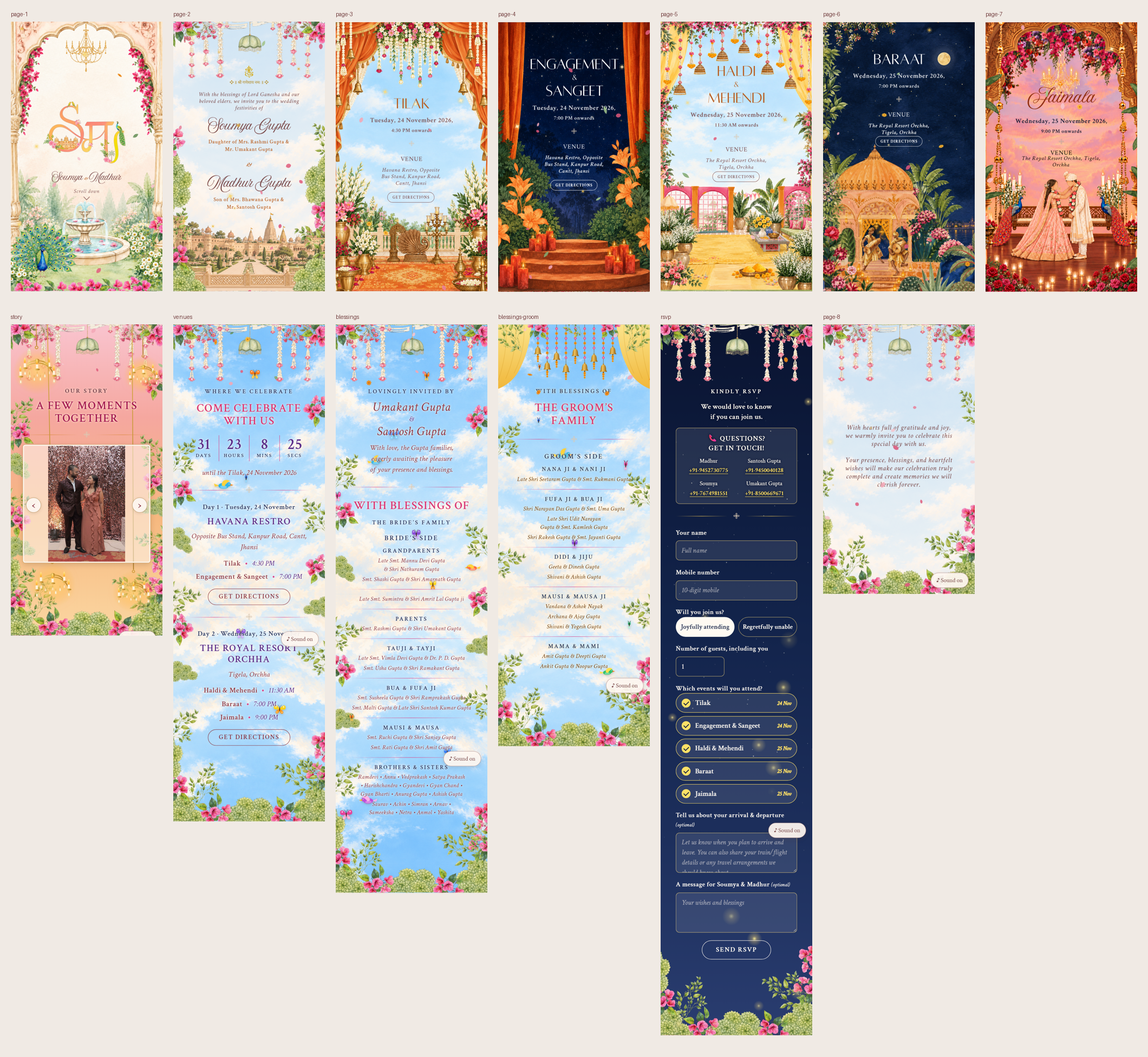
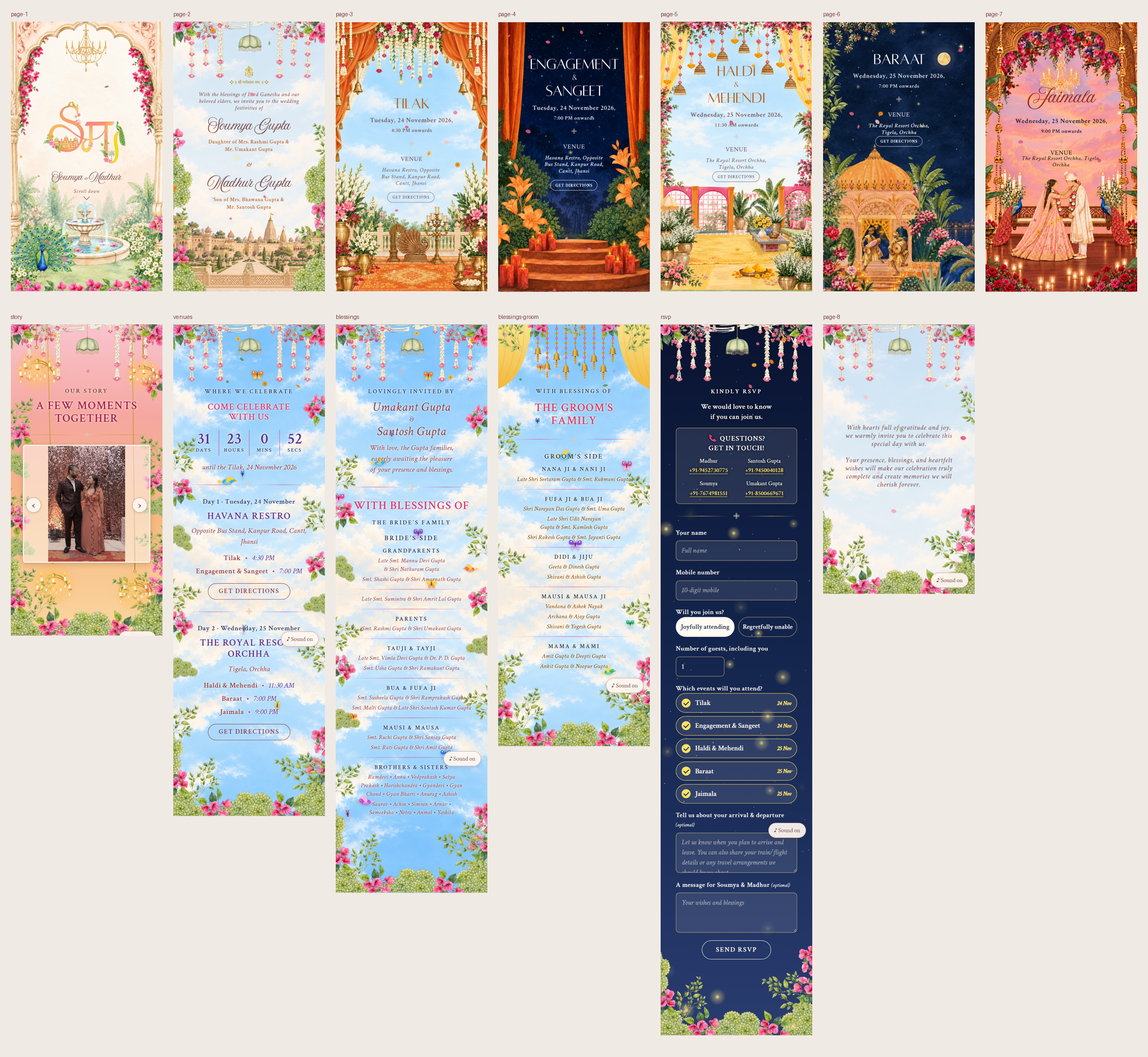
Bride's side: no Gupta in Brothers & Sisters, no ji on the Amrit Lal Gupta line; smaller Come Celebrate heading

diff --git a/Website/index.html b/Website/index.html
@@ -316,6 +316,7 @@ html.locked { overflow: hidden; }
 .web .crys { transform-box: fill-box; transform-origin: 50% 0; animation: crys 2.4s ease-in-out infinite; }
 @keyframes crys { 0%, 100% { opacity: .55; } 50% { opacity: 1; filter: drop-shadow(0 0 1.5px #fff6c8); } }
 @media (prefers-reduced-motion: reduce) { .web .crys { animation: none; } }
+#venues h2 { font-size: 6cqw; }
 [hidden] { display: none !important; }
 </style>
 </head>
@@ -480,7 +481,7 @@ html.locked { overflow: hidden; }
   <div class="divider" aria-hidden="true"><span></span><img src="images/img-10-251x251.png" alt=""><span></span></div>
   <h2 id="bless-h">With Blessings Of</h2>
   <p class="label">The Bride’s Family</p>
-  <div class="sides"><div class="side bride"><h3 class="band">Bride’s Side</h3><dl><div class="rel"><dt>Grandparents</dt><dd>Late Smt. Mannu Devi Gupta &amp; Shri Nathuram Gupta</dd><dd>Smt. Shashi Gupta &amp; Shri Amarnath Gupta</dd></div><div class="rel"><dd>Late Smt. Sumintra &amp; Shri Amrit Lal Gupta ji</dd></div><div class="rel"><dt>Parents</dt><dd>Smt. Rashmi Gupta &amp; Shri Umakant Gupta</dd></div><div class="rel"><dt>Tauji &amp; Tayji</dt><dd>Late Smt. Vimla Devi Gupta &amp; Dr. P. D. Gupta</dd><dd>Smt. Usha Gupta &amp; Shri Ramakant Gupta</dd></div><div class="rel"><dt>Bua &amp; Fufa Ji</dt><dd>Smt. Susheela Gupta &amp; Shri Ramprakash Gupta</dd><dd>Smt. Malti Gupta &amp; Late Shri Santosh Kumar Gupta</dd></div><div class="rel"><dt>Mausi &amp; Mausa</dt><dd>Smt. Ruchi Gupta &amp; Shri Sanjay Gupta</dd><dd>Smt. Rati Gupta &amp; Shri Amit Gupta</dd></div><div class="rel"><dt>Brothers &amp; Sisters</dt><dd>Ramdevi • Annu • Vedprakash • Satya Prakash • Harishchandra • Gyandevi • Gyan Chand • Gyan Bharti • Anurag Gupta • Ashish Gupta</dd><dd>Saurav • Achin • Simran • Arnav • Sameeksha • Netra • Anmol • Yashita</dd></div></dl></div></div>
+  <div class="sides"><div class="side bride"><h3 class="band">Bride’s Side</h3><dl><div class="rel"><dt>Grandparents</dt><dd>Late Smt. Mannu Devi Gupta &amp; Shri Nathuram Gupta</dd><dd>Smt. Shashi Gupta &amp; Shri Amarnath Gupta</dd></div><div class="rel"><dd>Late Smt. Sumintra &amp; Shri Amrit Lal Gupta</dd></div><div class="rel"><dt>Parents</dt><dd>Smt. Rashmi Gupta &amp; Shri Umakant Gupta</dd></div><div class="rel"><dt>Tauji &amp; Tayji</dt><dd>Late Smt. Vimla Devi Gupta &amp; Dr. P. D. Gupta</dd><dd>Smt. Usha Gupta &amp; Shri Ramakant Gupta</dd></div><div class="rel"><dt>Bua &amp; Fufa Ji</dt><dd>Smt. Susheela Gupta &amp; Shri Ramprakash Gupta</dd><dd>Smt. Malti Gupta &amp; Late Shri Santosh Kumar Gupta</dd></div><div class="rel"><dt>Mausi &amp; Mausa</dt><dd>Smt. Ruchi Gupta &amp; Shri Sanjay Gupta</dd><dd>Smt. Rati Gupta &amp; Shri Amit Gupta</dd></div><div class="rel"><dt>Brothers &amp; Sisters</dt><dd>Ramdevi • Annu • Vedprakash • Satya Prakash • Harishchandra • Gyandevi • Gyan Chand • Gyan Bharti • Anurag • Ashish</dd><dd>Saurav • Achin • Simran • Arnav • Sameeksha • Netra • Anmol • Yashita</dd></div></dl></div></div>
 </div></div></section>
 <section class="web theme-haldi" id="blessings-groom" aria-labelledby="bless-g-h"><canvas class="petals" data-n="8" aria-hidden="true"></canvas><div class="col"><div class="sky" aria-hidden="true"><i></i><i></i><i></i><i></i></div><svg class="head" viewBox="0 0 810 380" aria-hidden="true"><defs><linearGradient id="cu" x1="0" y1="0" x2="0" y2="1"><stop offset="0" stop-color="#fbe48c"/><stop offset="1" stop-color="#f1b73a"/></linearGradient><linearGradient id="bg" x1="0" x2="1"><stop offset="0" stop-color="#a8721a"/><stop offset=".4" stop-color="#f0c15a"/><stop offset="1" stop-color="#8a5a14"/></linearGradient></defs><g id="curl"><path d="M0 0 H178 C172 92 150 168 118 232 C96 282 56 322 0 344Z" fill="url(#cu)"/><path d="M44 0 C46 100 36 200 0 300 M92 0 C96 100 84 190 40 290 M138 0 C142 96 126 180 84 262" fill="none" stroke="#c98a12" stroke-width="2" opacity=".35"/></g><use href="#curl" transform="translate(810 0) scale(-1 1)"/><line x1="212" y1="0" x2="212" y2="150" stroke="#7a4d10" stroke-width="1.6"/><circle cx="212" cy="22" r="7" fill="#e8508a"/><circle cx="212" cy="22" r="3" fill="#f7b6cc"/><circle cx="212" cy="48" r="7.5" fill="#f59a1b"/><circle cx="212" cy="48" r="3" fill="#c76a06"/><circle cx="212" cy="74" r="7" fill="#e8508a"/><circle cx="212" cy="74" r="3" fill="#f7b6cc"/><circle cx="212" cy="100" r="7.5" fill="#f59a1b"/><circle cx="212" cy="100" r="3" fill="#c76a06"/><path d="M197 150 C197 128 204 120 212 120 C220 120 227 128 227 150 L232 159 H192Z" fill="url(#bg)"/><path d="M203 126 Q201 142 200 156 M221 126 Q223 142 224 156" fill="none" stroke="#7a4d10" stroke-width="1.4" opacity=".6"/><circle cx="212" cy="118" r="3.4" fill="#b9801f"/><circle cx="212" cy="162" r="3.6" fill="#7a4d10"/><circle cx="212" cy="172" r="7" fill="#f59a1b"/><circle cx="212" cy="172" r="2.6" fill="#c76a06"/><circle cx="212" cy="184" r="6" fill="#f59a1b"/><circle cx="212" cy="184" r="2.1" fill="#c76a06"/><circle cx="212" cy="196" r="5" fill="#f59a1b"/><circle cx="212" cy="196" r="1.6" fill="#c76a06"/><line x1="262" y1="0" x2="262" y2="232" stroke="#7a4d10" stroke-width="1.6"/><circle cx="262" cy="22" r="7" fill="#e8508a"/><circle cx="262" cy="22" r="3" fill="#f7b6cc"/><circle cx="262" cy="48" r="7.5" fill="#f59a1b"/><circle cx="262" cy="48" r="3" fill="#c76a06"/><circle cx="262" cy="74" r="7" fill="#e8508a"/><circle cx="262" cy="74" r="3" fill="#f7b6cc"/><circle cx="262" cy="100" r="7.5" fill="#f59a1b"/><circle cx="262" cy="100" r="3" fill="#c76a06"/><circle cx="262" cy="126" r="7" fill="#e8508a"/><circle cx="262" cy="126" r="3" fill="#f7b6cc"/><circle cx="262" cy="152" r="7.5" fill="#f59a1b"/><circle cx="262" cy="152" r="3" fill="#c76a06"/><circle cx="262" cy="178" r="7" fill="#e8508a"/><circle cx="262" cy="178" r="3" fill="#f7b6cc"/><path d="M247 232 C247 210 254 202 262 202 C270 202 277 210 277 232 L282 241 H242Z" fill="url(#bg)"/><path d="M253 208 Q251 224 250 238 M271 208 Q273 224 274 238" fill="none" stroke="#7a4d10" stroke-width="1.4" opacity=".6"/><circle cx="262" cy="200" r="3.4" fill="#b9801f"/><circle cx="262" cy="244" r="3.6" fill="#7a4d10"/><circle cx="262" cy="254" r="7" fill="#f59a1b"/><circle cx="262" cy="254" r="2.6" fill="#c76a06"/><circle cx="262" cy="266" r="6" fill="#f59a1b"/><circle cx="262" cy="266" r="2.1" fill="#c76a06"/><circle cx="262" cy="278" r="5" fill="#f59a1b"/><circle cx="262" cy="278" r="1.6" fill="#c76a06"/><line x1="312" y1="0" x2="312" y2="180" stroke="#7a4d10" stroke-width="1.6"/><circle cx="312" cy="22" r="7" fill="#e8508a"/><circle cx="312" cy="22" r="3" fill="#f7b6cc"/><circle cx="312" cy="48" r="7.5" fill="#f59a1b"/><circle cx="312" cy="48" r="3" fill="#c76a06"/><circle cx="312" cy="74" r="7" fill="#e8508a"/><circle cx="312" cy="74" r="3" fill="#f7b6cc"/><circle cx="312" cy="100" r="7.5" fill="#f59a1b"/><circle cx="312" cy="100" r="3" fill="#c76a06"/><circle cx="312" cy="126" r="7" fill="#e8508a"/><circle cx="312" cy="126" r="3" fill="#f7b6cc"/><path d="M297 180 C297 158 304 150 312 150 C320 150 327 158 327 180 L332 189 H292Z" fill="url(#bg)"/><path d="M303 156 Q301 172 300 186 M321 156 Q323 172 324 186" fill="none" stroke="#7a4d10" stroke-width="1.4" opacity=".6"/><circle cx="312" cy="148" r="3.4" fill="#b9801f"/><circle cx="312" cy="192" r="3.6" fill="#7a4d10"/><circle cx="312" cy="202" r="7" fill="#f59a1b"/><circle cx="312" cy="202" r="2.6" fill="#c76a06"/><circle cx="312" cy="214" r="6" fill="#f59a1b"/><circle cx="312" cy="214" r="2.1" fill="#c76a06"/><circle cx="312" cy="226" r="5" fill="#f59a1b"/><circle cx="312" cy="226" r="1.6" fill="#c76a06"/><line x1="362" y1="0" x2="362" y2="246" stroke="#7a4d10" stroke-width="1.6"/><circle cx="362" cy="22" r="7" fill="#e8508a"/><circle cx="362" cy="22" r="3" fill="#f7b6cc"/><circle cx="362" cy="48" r="7.5" fill="#f59a1b"/><circle cx="362" cy="48" r="3" fill="#c76a06"/><circle cx="362" cy="74" r="7" fill="#e8508a"/><circle cx="362" cy="74" r="3" fill="#f7b6cc"/><circle cx="362" cy="100" r="7.5" fill="#f59a1b"/><circle cx="362" cy="100" r="3" fill="#c76a06"/><circle cx="362" cy="126" r="7" fill="#e8508a"/><circle cx="362" cy="126" r="3" fill="#f7b6cc"/><circle cx="362" cy="152" r="7.5" fill="#f59a1b"/><circle cx="362" cy="152" r="3" fill="#c76a06"/><circle cx="362" cy="178" r="7" fill="#e8508a"/><circle cx="362" cy="178" r="3" fill="#f7b6cc"/><path d="M347 246 C347 224 354 216 362 216 C370 216 377 224 377 246 L382 255 H342Z" fill="url(#bg)"/><path d="M353 222 Q351 238 350 252 M371 222 Q373 238 374 252" fill="none" stroke="#7a4d10" stroke-width="1.4" opacity=".6"/><circle cx="362" cy="214" r="3.4" fill="#b9801f"/><circle cx="362" cy="258" r="3.6" fill="#7a4d10"/><circle cx="362" cy="268" r="7" fill="#f59a1b"/><circle cx="362" cy="268" r="2.6" fill="#c76a06"/><circle cx="362" cy="280" r="6" fill="#f59a1b"/><circle cx="362" cy="280" r="2.1" fill="#c76a06"/><circle cx="362" cy="292" r="5" fill="#f59a1b"/><circle cx="362" cy="292" r="1.6" fill="#c76a06"/><line x1="412" y1="0" x2="412" y2="160" stroke="#7a4d10" stroke-width="1.6"/><circle cx="412" cy="22" r="7" fill="#e8508a"/><circle cx="412" cy="22" r="3" fill="#f7b6cc"/><circle cx="412" cy="48" r="7.5" fill="#f59a1b"/><circle cx="412" cy="48" r="3" fill="#c76a06"/><circle cx="412" cy="74" r="7" fill="#e8508a"/><circle cx="412" cy="74" r="3" fill="#f7b6cc"/><circle cx="412" cy="100" r="7.5" fill="#f59a1b"/><circle cx="412" cy="100" r="3" fill="#c76a06"/><path d="M397 160 C397 138 404 130 412 130 C420 130 427 138 427 160 L432 169 H392Z" fill="url(#bg)"/><path d="M403 136 Q401 152 400 166 M421 136 Q423 152 424 166" fill="none" stroke="#7a4d10" stroke-width="1.4" opacity=".6"/><circle cx="412" cy="128" r="3.4" fill="#b9801f"/><circle cx="412" cy="172" r="3.6" fill="#7a4d10"/><circle cx="412" cy="182" r="7" fill="#f59a1b"/><circle cx="412" cy="182" r="2.6" fill="#c76a06"/><circle cx="412" cy="194" r="6" fill="#f59a1b"/><circle cx="412" cy="194" r="2.1" fill="#c76a06"/><circle cx="412" cy="206" r="5" fill="#f59a1b"/><circle cx="412" cy="206" r="1.6" fill="#c76a06"/><line x1="462" y1="0" x2="462" y2="238" stroke="#7a4d10" stroke-width="1.6"/><circle cx="462" cy="22" r="7" fill="#e8508a"/><circle cx="462" cy="22" r="3" fill="#f7b6cc"/><circle cx="462" cy="48" r="7.5" fill="#f59a1b"/><circle cx="462" cy="48" r="3" fill="#c76a06"/><circle cx="462" cy="74" r="7" fill="#e8508a"/><circle cx="462" cy="74" r="3" fill="#f7b6cc"/><circle cx="462" cy="100" r="7.5" fill="#f59a1b"/><circle cx="462" cy="100" r="3" fill="#c76a06"/><circle cx="462" cy="126" r="7" fill="#e8508a"/><circle cx="462" cy="126" r="3" fill="#f7b6cc"/><circle cx="462" cy="152" r="7.5" fill="#f59a1b"/><circle cx="462" cy="152" r="3" fill="#c76a06"/><circle cx="462" cy="178" r="7" fill="#e8508a"/><circle cx="462" cy="178" r="3" fill="#f7b6cc"/><path d="M447 238 C447 216 454 208 462 208 C470 208 477 216 477 238 L482 247 H442Z" fill="url(#bg)"/><path d="M453 214 Q451 230 450 244 M471 214 Q473 230 474 244" fill="none" stroke="#7a4d10" stroke-width="1.4" opacity=".6"/><circle cx="462" cy="206" r="3.4" fill="#b9801f"/><circle cx="462" cy="250" r="3.6" fill="#7a4d10"/><circle cx="462" cy="260" r="7" fill="#f59a1b"/><circle cx="462" cy="260" r="2.6" fill="#c76a06"/><circle cx="462" cy="272" r="6" fill="#f59a1b"/><circle cx="462" cy="272" r="2.1" fill="#c76a06"/><circle cx="462" cy="284" r="5" fill="#f59a1b"/><circle cx="462" cy="284" r="1.6" fill="#c76a06"/><line x1="512" y1="0" x2="512" y2="190" stroke="#7a4d10" stroke-width="1.6"/><circle cx="512" cy="22" r="7" fill="#e8508a"/><circle cx="512" cy="22" r="3" fill="#f7b6cc"/><circle cx="512" cy="48" r="7.5" fill="#f59a1b"/><circle cx="512" cy="48" r="3" fill="#c76a06"/><circle cx="512" cy="74" r="7" fill="#e8508a"/><circle cx="512" cy="74" r="3" fill="#f7b6cc"/><circle cx="512" cy="100" r="7.5" fill="#f59a1b"/><circle cx="512" cy="100" r="3" fill="#c76a06"/><circle cx="512" cy="126" r="7" fill="#e8508a"/><circle cx="512" cy="126" r="3" fill="#f7b6cc"/><path d="M497 190 C497 168 504 160 512 160 C520 160 527 168 527 190 L532 199 H492Z" fill="url(#bg)"/><path d="M503 166 Q501 182 500 196 M521 166 Q523 182 524 196" fill="none" stroke="#7a4d10" stroke-width="1.4" opacity=".6"/><circle cx="512" cy="158" r="3.4" fill="#b9801f"/><circle cx="512" cy="202" r="3.6" fill="#7a4d10"/><circle cx="512" cy="212" r="7" fill="#f59a1b"/><circle cx="512" cy="212" r="2.6" fill="#c76a06"/><circle cx="512" cy="224" r="6" fill="#f59a1b"/><circle cx="512" cy="224" r="2.1" fill="#c76a06"/><circle cx="512" cy="236" r="5" fill="#f59a1b"/><circle cx="512" cy="236" r="1.6" fill="#c76a06"/><line x1="562" y1="0" x2="562" y2="244" stroke="#7a4d10" stroke-width="1.6"/><circle cx="562" cy="22" r="7" fill="#e8508a"/><circle cx="562" cy="22" r="3" fill="#f7b6cc"/><circle cx="562" cy="48" r="7.5" fill="#f59a1b"/><circle cx="562" cy="48" r="3" fill="#c76a06"/><circle cx="562" cy="74" r="7" fill="#e8508a"/><circle cx="562" cy="74" r="3" fill="#f7b6cc"/><circle cx="562" cy="100" r="7.5" fill="#f59a1b"/><circle cx="562" cy="100" r="3" fill="#c76a06"/><circle cx="562" cy="126" r="7" fill="#e8508a"/><circle cx="562" cy="126" r="3" fill="#f7b6cc"/><circle cx="562" cy="152" r="7.5" fill="#f59a1b"/><circle cx="562" cy="152" r="3" fill="#c76a06"/><circle cx="562" cy="178" r="7" fill="#e8508a"/><circle cx="562" cy="178" r="3" fill="#f7b6cc"/><path d="M547 244 C547 222 554 214 562 214 C570 214 577 222 577 244 L582 253 H542Z" fill="url(#bg)"/><path d="M553 220 Q551 236 550 250 M571 220 Q573 236 574 250" fill="none" stroke="#7a4d10" stroke-width="1.4" opacity=".6"/><circle cx="562" cy="212" r="3.4" fill="#b9801f"/><circle cx="562" cy="256" r="3.6" fill="#7a4d10"/><circle cx="562" cy="266" r="7" fill="#f59a1b"/><circle cx="562" cy="266" r="2.6" fill="#c76a06"/><circle cx="562" cy="278" r="6" fill="#f59a1b"/><circle cx="562" cy="278" r="2.1" fill="#c76a06"/><circle cx="562" cy="290" r="5" fill="#f59a1b"/><circle cx="562" cy="290" r="1.6" fill="#c76a06"/><line x1="612" y1="0" x2="612" y2="150" stroke="#7a4d10" stroke-width="1.6"/><circle cx="612" cy="22" r="7" fill="#e8508a"/><circle cx="612" cy="22" r="3" fill="#f7b6cc"/><circle cx="612" cy="48" r="7.5" fill="#f59a1b"/><circle cx="612" cy="48" r="3" fill="#c76a06"/><circle cx="612" cy="74" r="7" fill="#e8508a"/><circle cx="612" cy="74" r="3" fill="#f7b6cc"/><circle cx="612" cy="100" r="7.5" fill="#f59a1b"/><circle cx="612" cy="100" r="3" fill="#c76a06"/><path d="M597 150 C597 128 604 120 612 120 C620 120 627 128 627 150 L632 159 H592Z" fill="url(#bg)"/><path d="M603 126 Q601 142 600 156 M621 126 Q623 142 624 156" fill="none" stroke="#7a4d10" stroke-width="1.4" opacity=".6"/><circle cx="612" cy="118" r="3.4" fill="#b9801f"/><circle cx="612" cy="162" r="3.6" fill="#7a4d10"/><circle cx="612" cy="172" r="7" fill="#f59a1b"/><circle cx="612" cy="172" r="2.6" fill="#c76a06"/><circle cx="612" cy="184" r="6" fill="#f59a1b"/><circle cx="612" cy="184" r="2.1" fill="#c76a06"/><circle cx="612" cy="196" r="5" fill="#f59a1b"/><circle cx="612" cy="196" r="1.6" fill="#c76a06"/><image href="images/img-06-442x570.png" width="1" height="1" preserveAspectRatio="none" transform="matrix(170,0,0,219,-30,-64)"/><image href="images/img-06-442x570.png" width="1" height="1" preserveAspectRatio="none" transform="matrix(-170,0,0,219,840,-64)"/><image href="images/img-06-442x570.png" width="1" height="1" preserveAspectRatio="none" transform="matrix(130,0,0,168,330,-92)"/><image href="images/img-07-413x413.png" width="1" height="1" preserveAspectRatio="none" transform="matrix(120,0,0,120,150,-36)"/><image href="images/img-07-413x413.png" width="1" height="1" preserveAspectRatio="none" transform="matrix(-120,0,0,120,660,-40)"/></svg><svg class="foot" viewBox="0 780 810 660" aria-hidden="true"><image href="images/img-05-739x532.png" width="1" height="1" preserveAspectRatio="none" transform="matrix(-178.3732,395.1016,-284.3638,-128.3793,156.9829,997.759)"/><image href="images/img-05-739x532.png" width="1" height="1" preserveAspectRatio="none" transform="matrix(394.2313,-180.2884,129.7578,283.7374,523.7259,1327.6056)"/><image href="images/img-05-739x532.png" width="1" height="1" preserveAspectRatio="none" transform="matrix(406.8389,149.681,-107.7289,292.8114,-122.3521,1194.4316)"/><image href="images/img-06-442x570.png" width="1" height="1" preserveAspectRatio="none" transform="matrix(175.0465,-137.7545,177.643,225.7333,502.927,1167.0293)"/><image href="images/img-07-413x413.png" width="1" height="1" preserveAspectRatio="none" transform="matrix(-81.6998,-164.588,164.588,-81.6998,779.6677,1162.1674)"/><image href="images/img-07-413x413.png" width="1" height="1" preserveAspectRatio="none" transform="matrix(176.4401,-51.3122,51.3122,176.4401,679.4113,1139.4545)"/><image href="images/img-07-413x413.png" width="1" height="1" preserveAspectRatio="none" transform="matrix(179.3428,-40.0028,40.0028,179.3428,-109.5525,1200.7655)"/><image href="images/img-06-442x570.png" width="1" height="1" preserveAspectRatio="none" transform="matrix(112.0505,139.9115,-179.719,143.931,190.9764,1095.7351)"/><image href="images/img-05-739x532.png" width="1" height="1" preserveAspectRatio="none" transform="matrix(406.8389,149.681,-107.7289,292.8114,292.5477,1210.9304)"/><image href="images/img-07-413x413.png" width="1" height="1" preserveAspectRatio="none" transform="matrix(-153.8557,100.4614,-100.4614,-153.8557,350.4998,1406.5757)"/><image href="images/img-07-413x413.png" width="1" height="1" preserveAspectRatio="none" transform="matrix(-180.976,-31.8084,31.8084,-180.976,683.6942,1506.9229)"/></svg><img class="vine va" src="images/img-06-442x570.png" alt="" aria-hidden="true"><img class="vine vb" src="images/img-06-442x570.png" alt="" aria-hidden="true"><img class="vine vc" src="images/img-06-442x570.png" alt="" aria-hidden="true"><img class="vine vd" src="images/img-06-442x570.png" alt="" aria-hidden="true"><img class="vine ve" src="images/img-06-442x570.png" alt="" aria-hidden="true"><img class="vine vf" src="images/img-06-442x570.png" alt="" aria-hidden="true"><div class="crit b" style="top:8.4%;--t:34s;--d:-25s;--w:7cqw"><div class="bob" style="--b:2.3s"><svg viewBox="0 0 60 50" style="--f:0.34s" aria-hidden="true"><g class="wl"><path d="M30 24 C14 2 2 8 4 22 C5 30 20 30 30 26Z" fill="#ff7a1a"/><path d="M30 26 C18 30 8 40 16 46 C24 50 30 38 30 28Z" fill="#ffc23a"/><circle cx="13" cy="16" r="3" fill="#fff" opacity=".8"/><circle cx="19" cy="40" r="2.2" fill="#fff" opacity=".8"/></g><g class="wr"><path d="M30 24 C46 2 58 8 56 22 C55 30 40 30 30 26Z" fill="#ff7a1a"/><path d="M30 26 C42 30 52 40 44 46 C36 50 30 38 30 28Z" fill="#ffc23a"/><circle cx="47" cy="16" r="3" fill="#fff" opacity=".8"/><circle cx="41" cy="40" r="2.2" fill="#fff" opacity=".8"/></g><ellipse cx="30" cy="27" rx="1.9" ry="9" fill="#3a2418"/><path d="M29 18 Q26 10 22 8 M31 18 Q34 10 38 8" fill="none" stroke="#3a2418" stroke-width="1.1" stroke-linecap="round"/></svg></div></div><div class="crit b rev" style="top:21.0%;--t:31s;--d:-32s;--w:8cqw"><div class="bob" style="--b:2.3s"><svg viewBox="0 0 60 50" style="--f:0.32s" aria-hidden="true"><g class="wl"><path d="M30 24 C14 2 2 8 4 22 C5 30 20 30 30 26Z" fill="#2f7cff"/><path d="M30 26 C18 30 8 40 16 46 C24 50 30 38 30 28Z" fill="#7fd1ff"/><circle cx="13" cy="16" r="3" fill="#fff" opacity=".8"/><circle cx="19" cy="40" r="2.2" fill="#fff" opacity=".8"/></g><g class="wr"><path d="M30 24 C46 2 58 8 56 22 C55 30 40 30 30 26Z" fill="#2f7cff"/><path d="M30 26 C42 30 52 40 44 46 C36 50 30 38 30 28Z" fill="#7fd1ff"/><circle cx="47" cy="16" r="3" fill="#fff" opacity=".8"/><circle cx="41" cy="40" r="2.2" fill="#fff" opacity=".8"/></g><ellipse cx="30" cy="27" rx="1.9" ry="9" fill="#3a2418"/><path d="M29 18 Q26 10 22 8 M31 18 Q34 10 38 8" fill="none" stroke="#3a2418" stroke-width="1.1" stroke-linecap="round"/></svg></div></div><div class="crit b" style="top:31.1%;--t:32s;--d:-35s;--w:10cqw"><div class="bob" style="--b:2.3s"><svg viewBox="0 0 60 50" style="--f:0.34s" aria-hidden="true"><g class="wl"><path d="M30 24 C14 2 2 8 4 22 C5 30 20 30 30 26Z" fill="#e8429b"/><path d="M30 26 C18 30 8 40 16 46 C24 50 30 38 30 28Z" fill="#ffa6d0"/><circle cx="13" cy="16" r="3" fill="#fff" opacity=".8"/><circle cx="19" cy="40" r="2.2" fill="#fff" opacity=".8"/></g><g class="wr"><path d="M30 24 C46 2 58 8 56 22 C55 30 40 30 30 26Z" fill="#e8429b"/><path d="M30 26 C42 30 52 40 44 46 C36 50 30 38 30 28Z" fill="#ffa6d0"/><circle cx="47" cy="16" r="3" fill="#fff" opacity=".8"/><circle cx="41" cy="40" r="2.2" fill="#fff" opacity=".8"/></g><ellipse cx="30" cy="27" rx="1.9" ry="9" fill="#3a2418"/><path d="M29 18 Q26 10 22 8 M31 18 Q34 10 38 8" fill="none" stroke="#3a2418" stroke-width="1.1" stroke-linecap="round"/></svg></div></div><div class="crit b" style="top:49.8%;--t:48s;--d:-3s;--w:10cqw"><div class="bob" style="--b:2.3s"><svg viewBox="0 0 60 50" style="--f:0.29s" aria-hidden="true"><g class="wl"><path d="M30 24 C14 2 2 8 4 22 C5 30 20 30 30 26Z" fill="#8a4bd8"/><path d="M30 26 C18 30 8 40 16 46 C24 50 30 38 30 28Z" fill="#c9a4ff"/><circle cx="13" cy="16" r="3" fill="#fff" opacity=".8"/><circle cx="19" cy="40" r="2.2" fill="#fff" opacity=".8"/></g><g class="wr"><path d="M30 24 C46 2 58 8 56 22 C55 30 40 30 30 26Z" fill="#8a4bd8"/><path d="M30 26 C42 30 52 40 44 46 C36 50 30 38 30 28Z" fill="#c9a4ff"/><circle cx="47" cy="16" r="3" fill="#fff" opacity=".8"/><circle cx="41" cy="40" r="2.2" fill="#fff" opacity=".8"/></g><ellipse cx="30" cy="27" rx="1.9" ry="9" fill="#3a2418"/><path d="M29 18 Q26 10 22 8 M31 18 Q34 10 38 8" fill="none" stroke="#3a2418" stroke-width="1.1" stroke-linecap="round"/></svg></div></div><div class="crit b rev" style="top:59.2%;--t:34s;--d:-18s;--w:10cqw"><div class="bob" style="--b:2.4s"><svg viewBox="0 0 60 50" style="--f:0.28s" aria-hidden="true"><g class="wl"><path d="M30 24 C14 2 2 8 4 22 C5 30 20 30 30 26Z" fill="#ffd21a"/><path d="M30 26 C18 30 8 40 16 46 C24 50 30 38 30 28Z" fill="#ff9a1a"/><circle cx="13" cy="16" r="3" fill="#fff" opacity=".8"/><circle cx="19" cy="40" r="2.2" fill="#fff" opacity=".8"/></g><g class="wr"><path d="M30 24 C46 2 58 8 56 22 C55 30 40 30 30 26Z" fill="#ffd21a"/><path d="M30 26 C42 30 52 40 44 46 C36 50 30 38 30 28Z" fill="#ff9a1a"/><circle cx="47" cy="16" r="3" fill="#fff" opacity=".8"/><circle cx="41" cy="40" r="2.2" fill="#fff" opacity=".8"/></g><ellipse cx="30" cy="27" rx="1.9" ry="9" fill="#3a2418"/><path d="M29 18 Q26 10 22 8 M31 18 Q34 10 38 8" fill="none" stroke="#3a2418" stroke-width="1.1" stroke-linecap="round"/></svg></div></div><div class="crit b" style="top:69.7%;--t:35s;--d:-6s;--w:8cqw"><div class="bob" style="--b:2.7s"><svg viewBox="0 0 60 50" style="--f:0.34s" aria-hidden="true"><g class="wl"><path d="M30 24 C14 2 2 8 4 22 C5 30 20 30 30 26Z" fill="#17b26a"/><path d="M30 26 C18 30 8 40 16 46 C24 50 30 38 30 28Z" fill="#9cf0c2"/><circle cx="13" cy="16" r="3" fill="#fff" opacity=".8"/><circle cx="19" cy="40" r="2.2" fill="#fff" opacity=".8"/></g><g class="wr"><path d="M30 24 C46 2 58 8 56 22 C55 30 40 30 30 26Z" fill="#17b26a"/><path d="M30 26 C42 30 52 40 44 46 C36 50 30 38 30 28Z" fill="#9cf0c2"/><circle cx="47" cy="16" r="3" fill="#fff" opacity=".8"/><circle cx="41" cy="40" r="2.2" fill="#fff" opacity=".8"/></g><ellipse cx="30" cy="27" rx="1.9" ry="9" fill="#3a2418"/><path d="M29 18 Q26 10 22 8 M31 18 Q34 10 38 8" fill="none" stroke="#3a2418" stroke-width="1.1" stroke-linecap="round"/></svg></div></div><div class="crit b" style="top:80.2%;--t:31s;--d:-39s;--w:8cqw"><div class="bob" style="--b:2.9s"><svg viewBox="0 0 60 50" style="--f:0.33s" aria-hidden="true"><g class="wl"><path d="M30 24 C14 2 2 8 4 22 C5 30 20 30 30 26Z" fill="#ff7a1a"/><path d="M30 26 C18 30 8 40 16 46 C24 50 30 38 30 28Z" fill="#ffc23a"/><circle cx="13" cy="16" r="3" fill="#fff" opacity=".8"/><circle cx="19" cy="40" r="2.2" fill="#fff" opacity=".8"/></g><g class="wr"><path d="M30 24 C46 2 58 8 56 22 C55 30 40 30 30 26Z" fill="#ff7a1a"/><path d="M30 26 C42 30 52 40 44 46 C36 50 30 38 30 28Z" fill="#ffc23a"/><circle cx="47" cy="16" r="3" fill="#fff" opacity=".8"/><circle cx="41" cy="40" r="2.2" fill="#fff" opacity=".8"/></g><ellipse cx="30" cy="27" rx="1.9" ry="9" fill="#3a2418"/><path d="M29 18 Q26 10 22 8 M31 18 Q34 10 38 8" fill="none" stroke="#3a2418" stroke-width="1.1" stroke-linecap="round"/></svg></div></div><div class="crit k" style="top:29.0%;--t:27s;--d:-18s;--w:15cqw"><div class="bob" style="--b:1.9s"><svg viewBox="0 0 80 50" style="--f:0.24s" aria-hidden="true"><path d="M24 28 L4 21 L8 32Z" fill="#ffd23a"/><ellipse cx="38" cy="28" rx="18" ry="10" fill="#2fb4e8"/><ellipse cx="38" cy="32" rx="12" ry="5" fill="#fff" opacity=".35"/><circle cx="56" cy="22" r="7.5" fill="#2fb4e8"/><path d="M62 21 L73 24 L62 27Z" fill="#ff8a1a"/><circle cx="58" cy="20.5" r="1.9" fill="#fff"/><circle cx="58.6" cy="20.5" r=".9" fill="#222"/><path class="bw" d="M32 27 C28 8 46 1 58 8 C48 14 44 22 42 29Z" fill="#ffd23a"/></svg></div></div><div class="crit k rev" style="top:49.3%;--t:23s;--d:-2s;--w:14cqw"><div class="bob" style="--b:2.0s"><svg viewBox="0 0 80 50" style="--f:0.31s" aria-hidden="true"><path d="M24 28 L4 21 L8 32Z" fill="#ffd23a"/><ellipse cx="38" cy="28" rx="18" ry="10" fill="#ff6a3d"/><ellipse cx="38" cy="32" rx="12" ry="5" fill="#fff" opacity=".35"/><circle cx="56" cy="22" r="7.5" fill="#ff6a3d"/><path d="M62 21 L73 24 L62 27Z" fill="#ffb000"/><circle cx="58" cy="20.5" r="1.9" fill="#fff"/><circle cx="58.6" cy="20.5" r=".9" fill="#222"/><path class="bw" d="M32 27 C28 8 46 1 58 8 C48 14 44 22 42 29Z" fill="#ffd23a"/></svg></div></div><div class="crit k" style="top:81.8%;--t:24s;--d:-19s;--w:12cqw"><div class="bob" style="--b:1.7s"><svg viewBox="0 0 80 50" style="--f:0.26s" aria-hidden="true"><path d="M24 28 L4 21 L8 32Z" fill="#ffe04a"/><ellipse cx="38" cy="28" rx="18" ry="10" fill="#2bc16b"/><ellipse cx="38" cy="32" rx="12" ry="5" fill="#fff" opacity=".35"/><circle cx="56" cy="22" r="7.5" fill="#2bc16b"/><path d="M62 21 L73 24 L62 27Z" fill="#ff7a1a"/><circle cx="58" cy="20.5" r="1.9" fill="#fff"/><circle cx="58.6" cy="20.5" r=".9" fill="#222"/><path class="bw" d="M32 27 C28 8 46 1 58 8 C48 14 44 22 42 29Z" fill="#ffe04a"/></svg></div></div><div class="frame">
   <p class="label">With blessings of</p>

diff --git a/Source/pipeline/build.py b/Source/pipeline/build.py
@@ -552,12 +552,12 @@ def art(kind, fly=(5, 2)):
 def ev(name, time):
     return f'<li><span class="n">{name}</span><span class="t">{time}</span></li>'
 bride = [("Grandparents", ["Late Smt. Mannu Devi Gupta & Shri Nathuram Gupta", "Smt. Shashi Gupta & Shri Amarnath Gupta"]),
-         ("", ["Late Smt. Sumintra & Shri Amrit Lal Gupta ji"]),
+         ("", ["Late Smt. Sumintra & Shri Amrit Lal Gupta"]),
          ("Parents", ["Smt. Rashmi Gupta & Shri Umakant Gupta"]),
          ("Tauji & Tayji", ["Late Smt. Vimla Devi Gupta & Dr. P. D. Gupta", "Smt. Usha Gupta & Shri Ramakant Gupta"]),
          ("Bua & Fufa Ji", ["Smt. Susheela Gupta & Shri Ramprakash Gupta", "Smt. Malti Gupta & Late Shri Santosh Kumar Gupta"]),
          ("Mausi & Mausa", ["Smt. Ruchi Gupta & Shri Sanjay Gupta", "Smt. Rati Gupta & Shri Amit Gupta"]),
-         ("Brothers & Sisters", ["Ramdevi • Annu • Vedprakash • Satya Prakash • Harishchandra • Gyandevi • Gyan Chand • Gyan Bharti • Anurag Gupta • Ashish Gupta",
+         ("Brothers & Sisters", ["Ramdevi • Annu • Vedprakash • Satya Prakash • Harishchandra • Gyandevi • Gyan Chand • Gyan Bharti • Anurag • Ashish",
                                  "Saurav • Achin • Simran • Arnav • Sameeksha • Netra • Anmol • Yashita"])]
 groom = [("Nana Ji & Nani Ji", ["Late Shri Seetaram Gupta & Smt. Rukmani Gupta"]),
          ("Fufa Ji & Bua Ji", ["Shri Narayan Das Gupta & Smt. Uma Gupta", "Late Shri Udit Narayan Gupta & Smt. Kamlesh Gupta", "Shri Rakesh Gupta & Smt. Jayanti Gupta"]),
@@ -1104,6 +1104,7 @@ html.locked {{ overflow: hidden; }}
 .web .crys {{ transform-box: fill-box; transform-origin: 50% 0; animation: crys 2.4s ease-in-out infinite; }}
 @keyframes crys {{ 0%, 100% {{ opacity: .55; }} 50% {{ opacity: 1; filter: drop-shadow(0 0 1.5px #fff6c8); }} }}
 @media (prefers-reduced-motion: reduce) {{ .web .crys {{ animation: none; }} }}
+#venues h2 {{ font-size: 6cqw; }}
 [hidden] {{ display: none !important; }}
 </style>
 </head>
